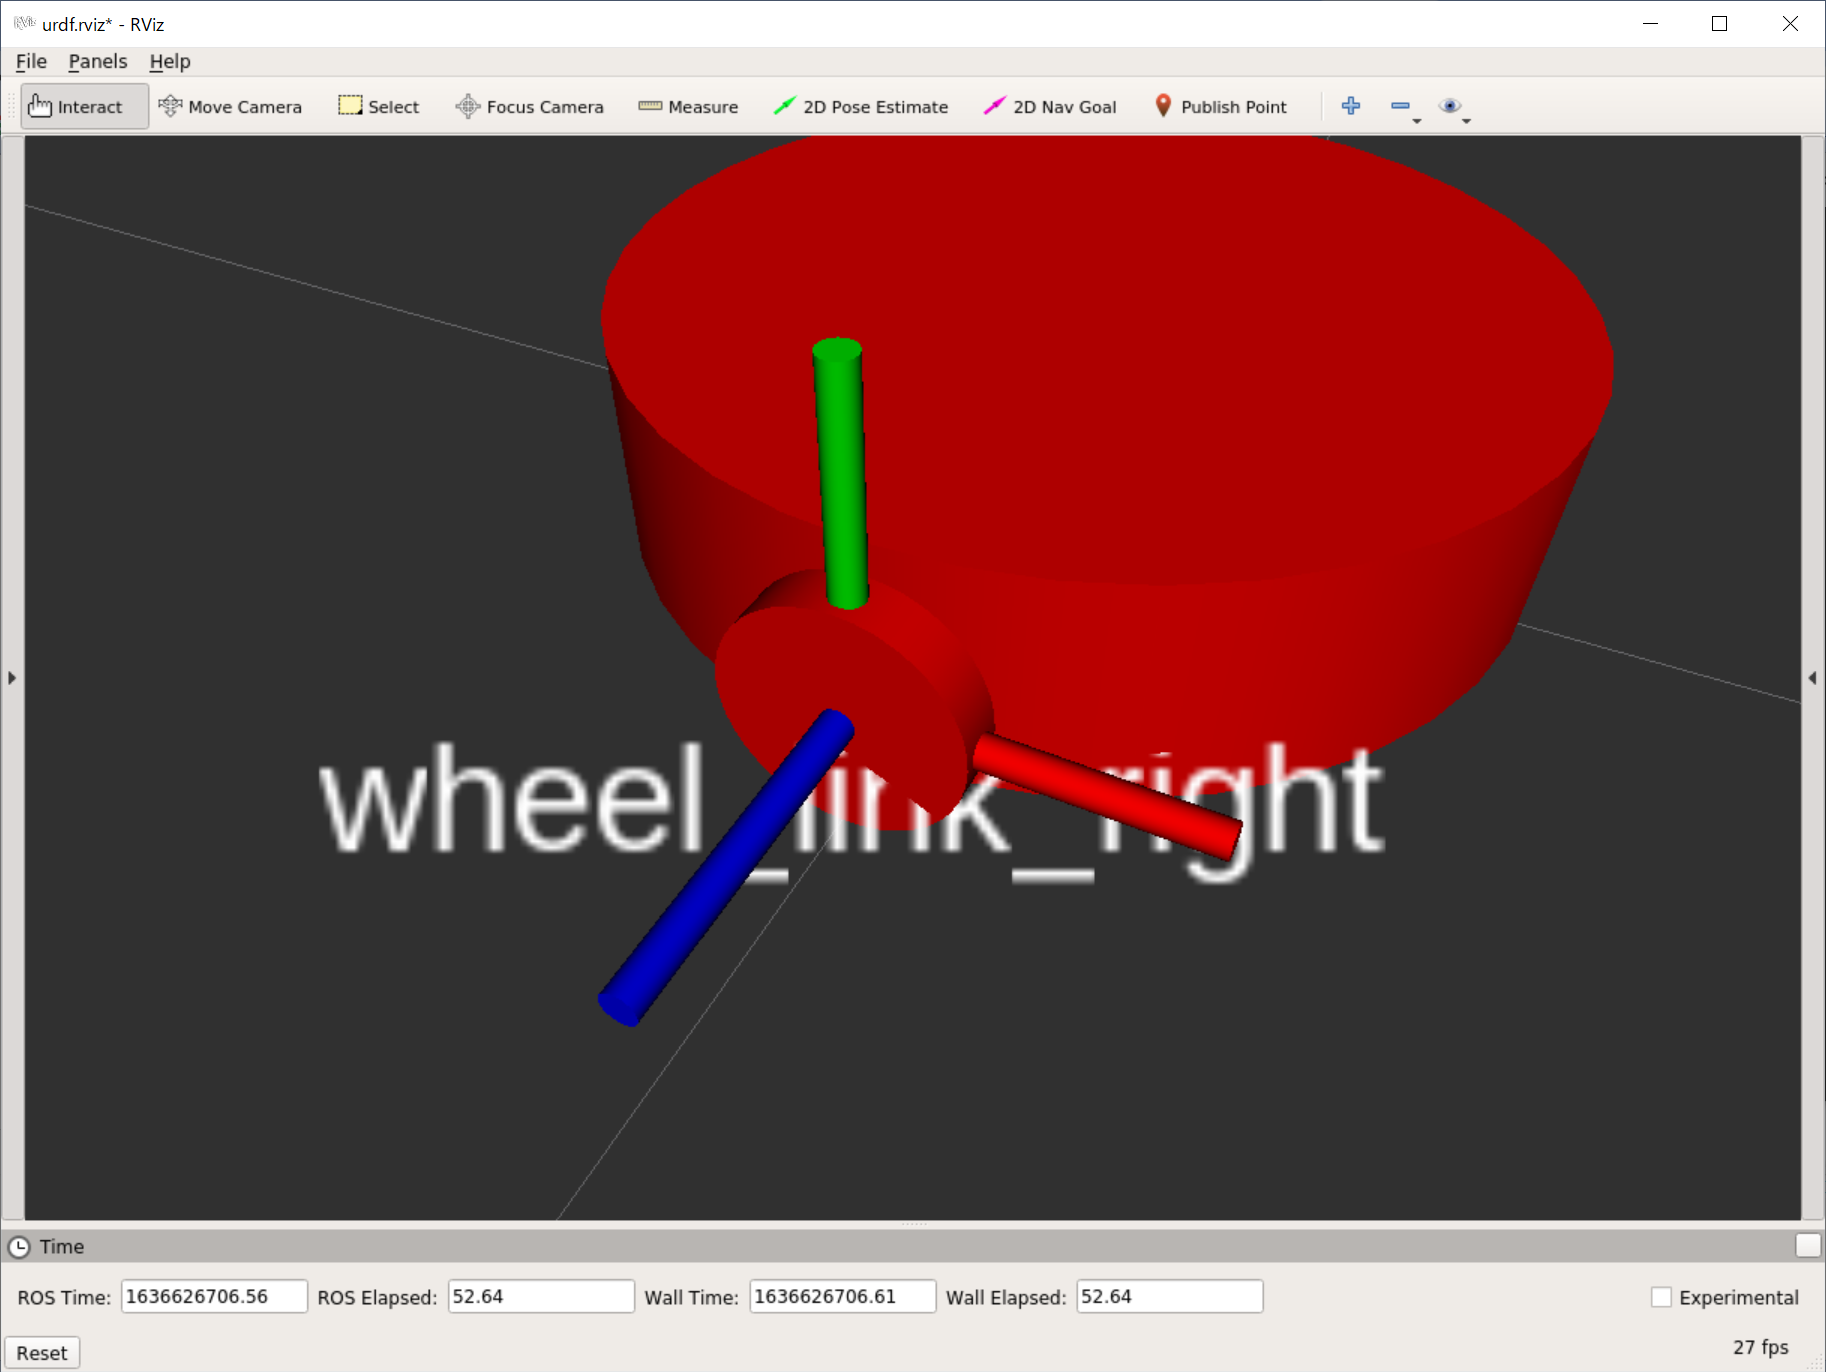
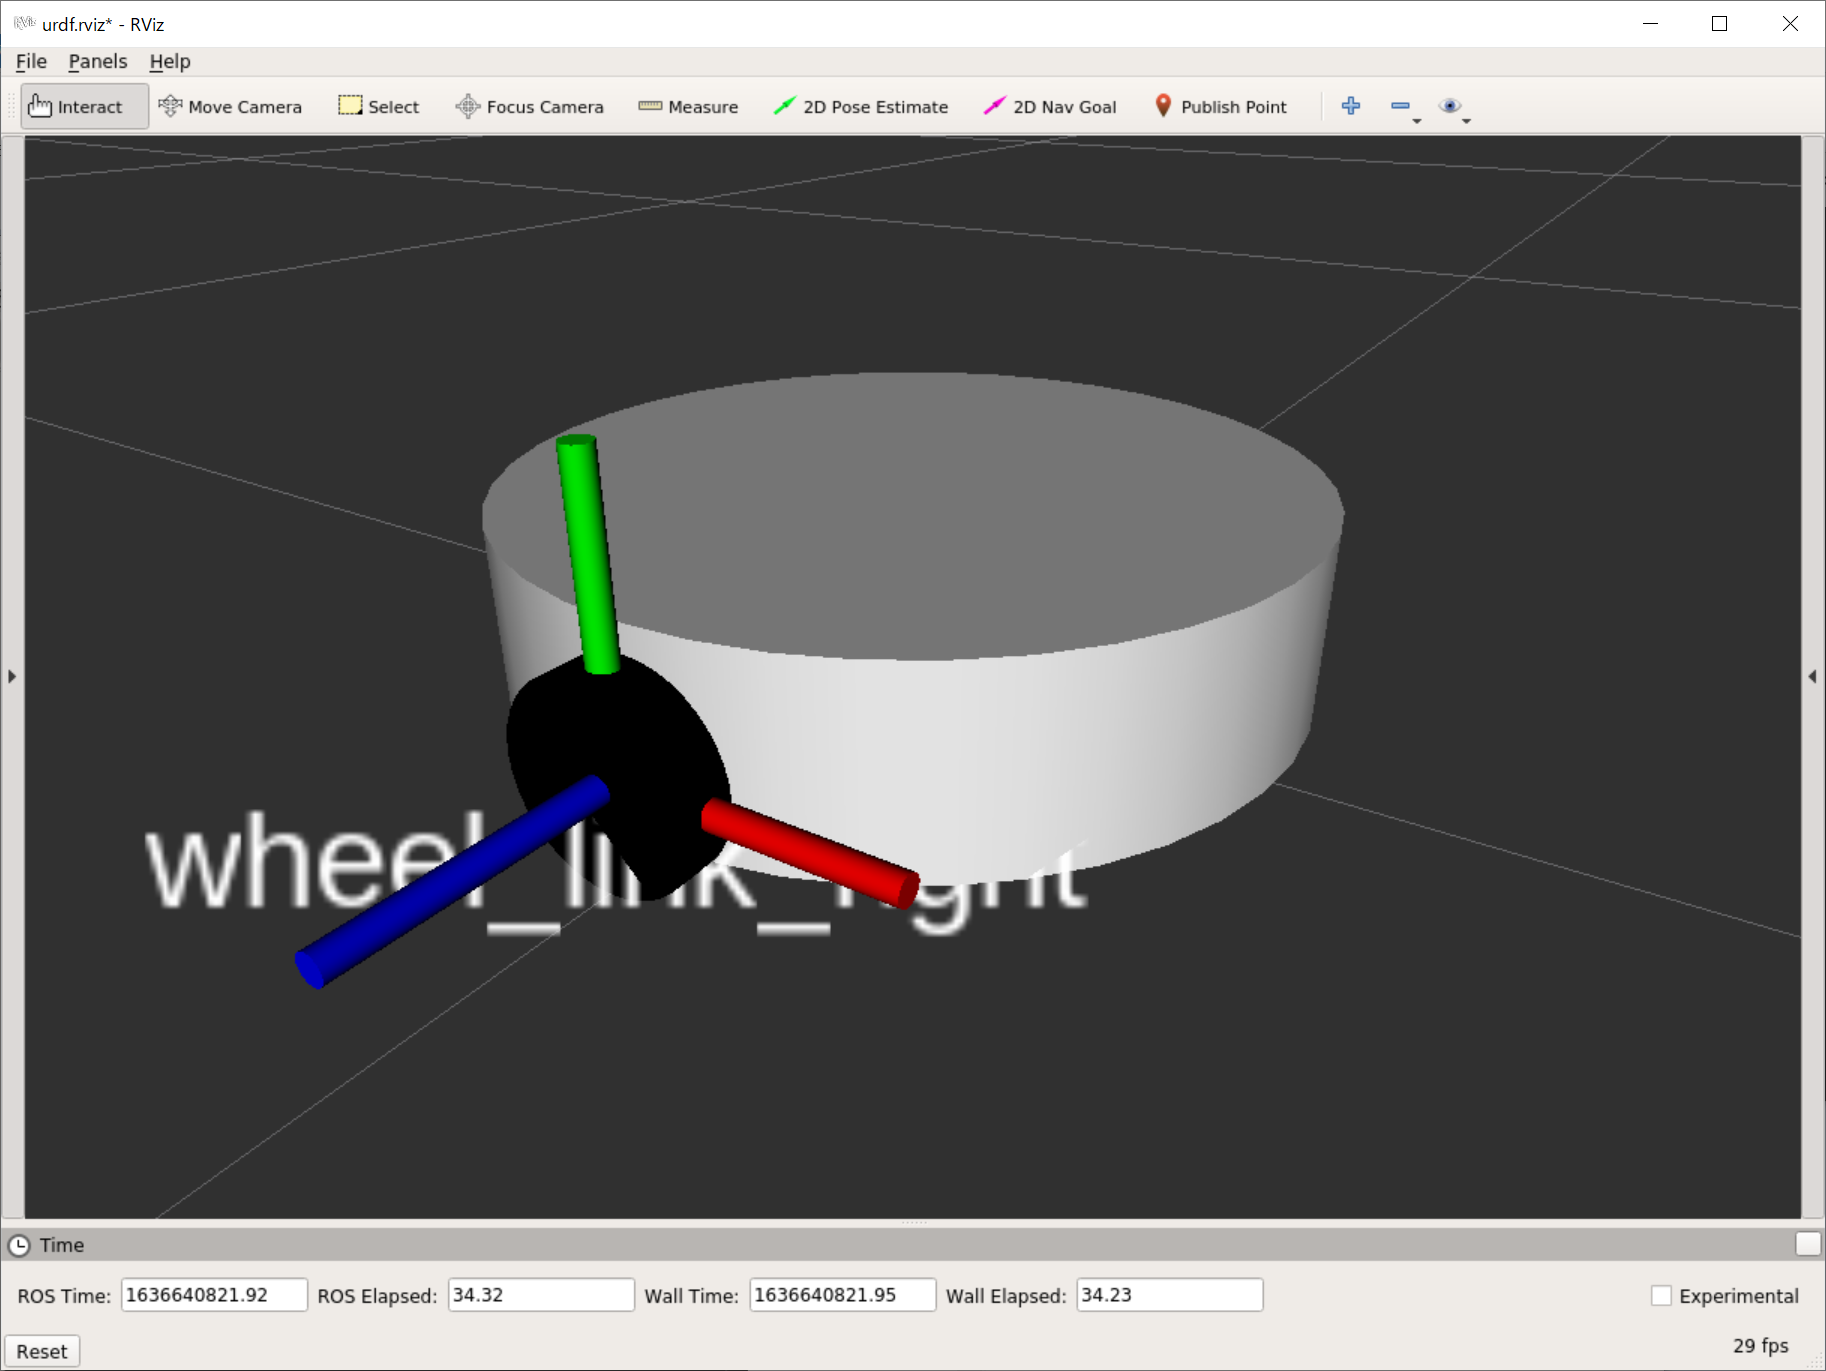
DOCS: phisical_quantity

diff --git a/rviz/practice/answer/README.md b/rviz/practice/answer/README.md
@@ -8,7 +8,7 @@
     ```
 
 1. 円柱でルンバの車体body_linkを作成する
-    - 半径150mm, 高さ72mmの円柱body_link
+    - 半径150mm, 高さ72mmの円柱body_link：白色
 
     ```xml
     <link name="body_link">
@@ -17,15 +17,15 @@
             <cylinder radius="0.15" length="0.072"/>
         </geometry>
         <origin xyz="0 0 0" rpy="0 0 0"/>
-        <material name="red">
-            <color rgba="1.0 0.0 0.0 2.0"/>
+        <material name="white">
+            <color rgba="1.0 1.0 1.0 2.0"/>
         </material>
         </visual>
     </link>
     ```
 
 1. 球でルンバのキャスターball_linkを作成する
-    - 半径10mmのキャスターball_link_front, ball_link_back
+    - 半径10mmのキャスターball_link_front, ball_link_back：白色
 
     ```xml
     <link name="ball_link_front">
@@ -34,8 +34,8 @@
             <sphere radius="0.01"/>
         </geometry>
         <origin xyz="0 0 0" rpy="0 0 0"/>
-        <material name="red">
-            <color rgba="1.0 0.0 0.0 2.0"/>
+        <material name="white">
+            <color rgba="1.0 1.0 1.0 2.0"/>
         </material>
         </visual>
     </link>
@@ -46,15 +46,15 @@
             <sphere radius="0.01"/>
         </geometry>
         <origin xyz="0 0 0" rpy="0 0 0"/>
-        <material name="red">
-            <color rgba="1.0 0.0 0.0 2.0"/>
+        <material name="white">
+            <color rgba="1.0 1.0 1.0 2.0"/>
         </material>
         </visual>
     </link>
     ```
 
 1. 円柱でルンバの車輪wheel_linkを作成する
-    - 半径36mm, 高さ16mmの円柱wheel_link_right, wheel_link_left
+    - 半径36mm, 高さ16mmの円柱wheel_link_right, wheel_link_left：黒色
 
     ```xml
     <link name="wheel_link_right">
@@ -63,8 +63,8 @@
             <cylinder radius="0.036" length="0.016"/>
         </geometry>
         <origin xyz="0 0 0" rpy="0 0 0"/>
-        <material name="red">
-            <color rgba="1.0 0.0 0.0 2.0"/>
+        <material name="black">
+            <color rgba="0.0 0.0 0.0 2.0"/>
         </material>
         </visual>
     </link>
@@ -75,8 +75,8 @@
             <cylinder radius="0.036" length="0.016"/>
         </geometry>
         <origin xyz="0 0 0" rpy="0 0 0"/>
-        <material name="red">
-            <color rgba="1.0 0.0 0.0 2.0"/>
+        <material name="black">
+            <color rgba="0.0 0.0 0.0 2.0"/>
         </material>
         </visual>
     </link>
@@ -141,8 +141,8 @@
         <cylinder radius="0.15" length="0.072"/>
       </geometry>
       <origin xyz="0 0 0" rpy="0 0 0"/>
-      <material name="red">
-        <color rgba="1.0 0.0 0.0 2.0"/>
+      <material name="white">
+        <color rgba="1.0 1.0 1.0 2.0"/>
       </material>
     </visual>
   </link>
@@ -153,8 +153,8 @@
         <sphere radius="0.01"/>
       </geometry>
       <origin xyz="0 0 0" rpy="0 0 0"/>
-      <material name="red">
-        <color rgba="1.0 0.0 0.0 2.0"/>
+      <material name="white">
+        <color rgba="1.0 1.0 1.0 2.0"/>
       </material>
     </visual>
   </link>
@@ -165,8 +165,8 @@
         <sphere radius="0.01"/>
       </geometry>
       <origin xyz="0 0 0" rpy="0 0 0"/>
-      <material name="red">
-        <color rgba="1.0 0.0 0.0 2.0"/>
+      <material name="white">
+        <color rgba="1.0 1.0 1.0 2.0"/>
       </material>
     </visual>
   </link>
@@ -177,8 +177,8 @@
         <cylinder radius="0.036" length="0.016"/>
       </geometry>
       <origin xyz="0 0 0" rpy="0 0 0"/>
-      <material name="red">
-        <color rgba="1.0 0.0 0.0 2.0"/>
+      <material name="black">
+        <color rgba="0.0 0.0 0.0 2.0"/>
       </material>
     </visual>
   </link>
@@ -189,8 +189,8 @@
         <cylinder radius="0.036" length="0.016"/>
       </geometry>
       <origin xyz="0 0 0" rpy="0 0 0"/>
-      <material name="red">
-        <color rgba="1.0 0.0 0.0 2.0"/>
+      <material name="black">
+        <color rgba="0.0 0.0 0.0 2.0"/>
       </material>
     </visual>
   </link>

diff --git a/rviz/practice/README.md b/rviz/practice/README.md
@@ -20,14 +20,15 @@ roomba.urdfに記述していきます．
 ### リンク作成
 1. base_linkを作成する
 1. 円柱でルンバの車体body_linkを作成する
-    - 半径150mm, 高さ72mmの円柱body_link
+    - 半径150mm, 高さ72mmの円柱body_link：白色
 1. 球でルンバのキャスターball_linkを作成する
-    - 半径10mmのキャスターball_link_front, ball_link_back
+    - 半径10mmのキャスターball_link_front, ball_link_back：白色
 1. 円柱でルンバの車輪wheel_linkを作成する
-    - 半径36mm, 高さ16mmの円柱wheel_link_right, wheel_link_left
+    - 半径36mm, 高さ16mmの円柱wheel_link_right, wheel_link_left：黒色
 ### ジョイント作成
 1. base_linkとbody_linkの固定ジョイントbody_jointを作成する
 1. body_linkとball_linkの固定ジョイントball_joint_front, ball_joint_backを作成する
+    - 補足：一般的に，ロボット座標系はロボット前方をx軸，ロボット上方をz軸，ロボット左方をy軸となるように設定します．なので，base_linkやbody_linkのx座標がロボット前方になるようにしましょう．すなわち，ball_link_frontはbody_linkのx座標正方向に0.11mのところに設置するようにしましょう．
 1. body_linkとwheel_linkの回転ジョイントwheel_joint_right, wheel_joint_leftを作成する
 
 解答は[こちら](./answer/)
